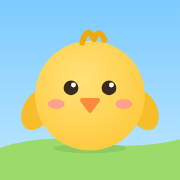
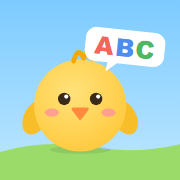
App 图标加上 ABC 对话气泡

Changed region(s): [[0.0, 0.1389, 1.0, 0.8611], [0.25, 0.4444, 0.4444, 0.6667]]

diff --git a/index.html b/index.html
@@ -4,9 +4,9 @@
 <meta name="viewport" content="width=device-width, initial-scale=1, viewport-fit=cover">
 <meta name="referrer" content="strict-origin-when-cross-origin">
 <link rel="manifest" href="manifest.webmanifest">
-<link rel="icon" type="image/png" href="icons/icon-192.png?v=2">
-<link rel="icon" type="image/svg+xml" href="icons/icon.svg?v=2">
-<link rel="apple-touch-icon" sizes="180x180" href="apple-touch-icon.png?v=2">
+<link rel="icon" type="image/png" href="icons/icon-192.png?v=3">
+<link rel="icon" type="image/svg+xml" href="icons/icon.svg?v=3">
+<link rel="apple-touch-icon" sizes="180x180" href="apple-touch-icon.png?v=3">
 <meta name="theme-color" content="#FFFFFF">
 <meta name="mobile-web-app-capable" content="yes">
 <meta name="apple-mobile-web-app-capable" content="yes">
@@ -1270,7 +1270,7 @@ const LINKS = {
   play: [['B站看示范', q => 'https://search.bilibili.com/all?keyword=' + encodeURIComponent(q)]],
 };
 const PACE = ['', '慢', '中', '快'];
-const APP_VERSION = '2026-11-19 啾啾图标 v1';
+const APP_VERSION = '2026-11-19 啾啾图标加ABC v1';
 
 const $ = id => document.getElementById(id);
 const ic = id => `<svg class="ico" aria-hidden="true"><use href="#${id}"/></svg>`;
